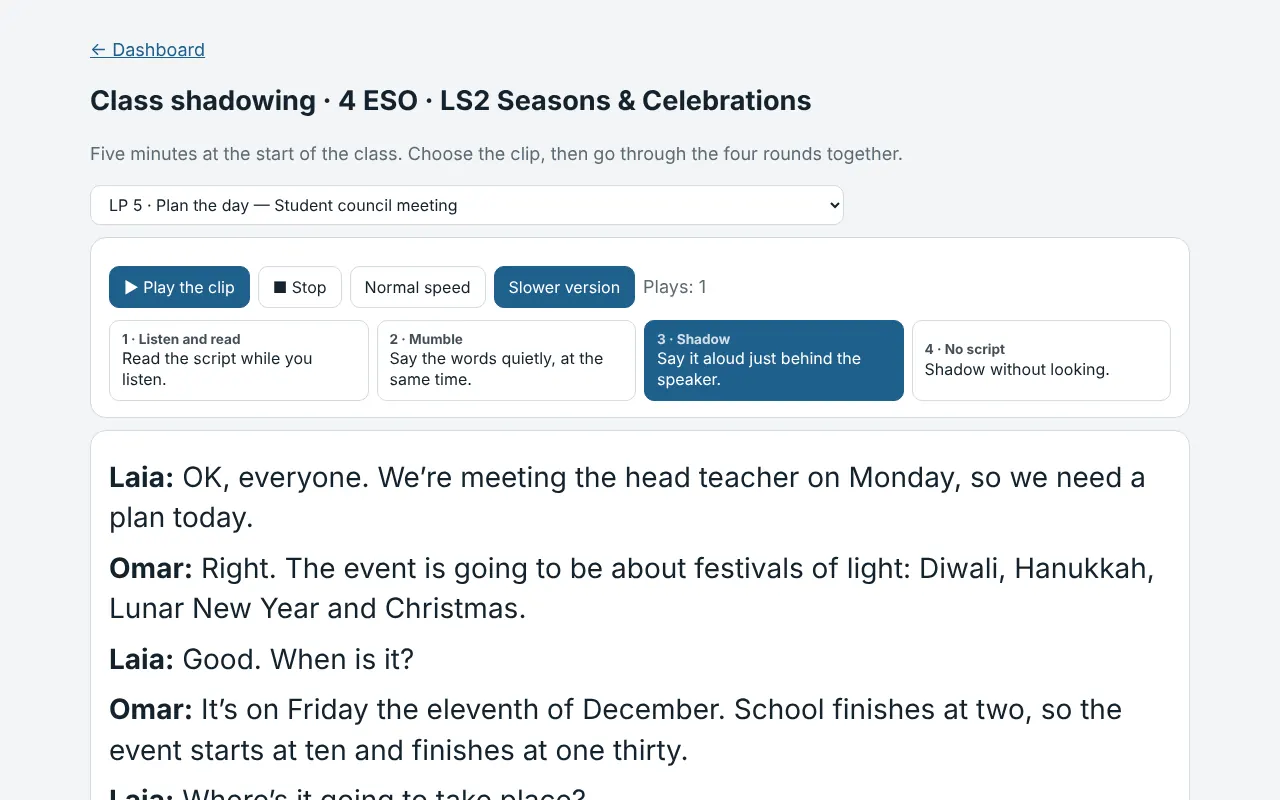
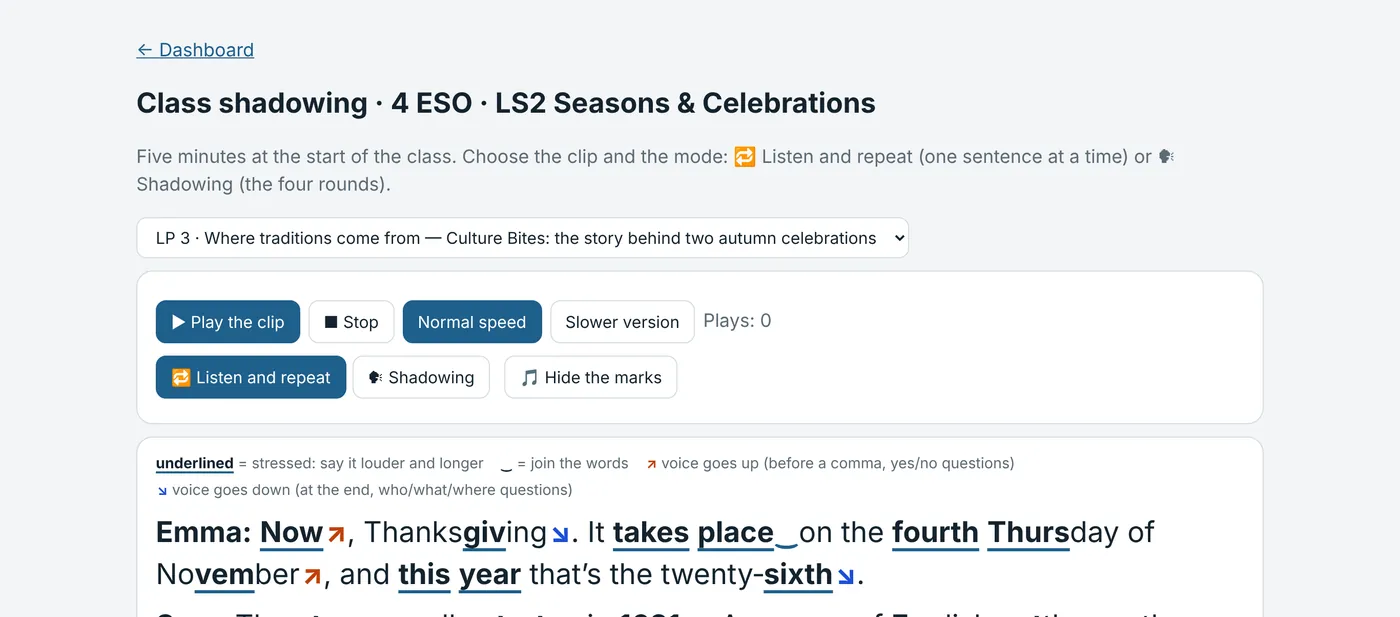
Welcome page: shadowing picture shows the marks (stress, linking, melody arrows)
Claude-Session: https://claude.ai/code/session_011rtGVnZz9G4f5sruhzMcZ9

Changed region(s): [[0.0625, 0.0308, 0.9062, 1.0], [0.625, 0.9854, 0.6562, 1.0]]

diff --git a/index.html b/index.html
@@ -356,7 +356,7 @@
         <div class="feat-grid">
           <button type="button" class="feat" data-imgs="ls"><span class="fi" aria-hidden="true">📚</span><h3>Learning situations and competences</h3><p>Each unit is a learning situation with a real final product. Listening, reading, speaking and writing are worked equally, and marks are given by competence and criterion, as the curriculum asks.</p><span class="see">See it →</span></button>
           <button type="button" class="feat" data-imgs="grammar"><span class="fi" aria-hidden="true">🧩</span><h3>Structured grammar and vocabulary</h3><p>Grammar and vocabulary come in a clear order, level by level, from A1 to B1+, with a study guide for every learning path and summaries to download.</p><span class="see">See it →</span></button>
-          <button type="button" class="feat" data-imgs="shadowing,level,games"><span class="fi" aria-hidden="true">🎧</span><h3>Shadowing, flashcards and games</h3><p>Shadowing for pronunciation and fluency, flashcards for vocabulary, and grammar theory that turns into class games played together.</p><span class="see">See it →</span></button>
+          <button type="button" class="feat" data-imgs="shadowing,level,games"><span class="fi" aria-hidden="true">🎧</span><h3>Shadowing, flashcards and games</h3><p>Shadowing with stressed words, linking and up and down arrows for the melody, flashcards for vocabulary, and grammar theory that turns into class games played together.</p><span class="see">See it →</span></button>
           <button type="button" class="feat" data-imgs="level"><span class="fi" aria-hidden="true">🎯</span><h3>Every student at their level</h3><p>Four levels (Starter, Base, Core and Plus) with the same goals, so every student works on the same topic at the level that fits them.</p><span class="see">See it →</span></button>
           <button type="button" class="feat" data-imgs="corrected"><span class="fi" aria-hidden="true">✅</span><h3>Corrected straight away</h3><p>Activities are corrected automatically. Students see their answers and corrections at once, and they stay there when they come back.</p><span class="see">See it →</span></button>
           <button type="button" class="feat" data-imgs="writing"><span class="fi" aria-hidden="true">✍</span><h3>Writing with full corrections</h3><p>Every writing comes back with the mistakes underlined, a table with each mistake, its correction and why, and the text corrected.</p><span class="see">See it →</span></button>
